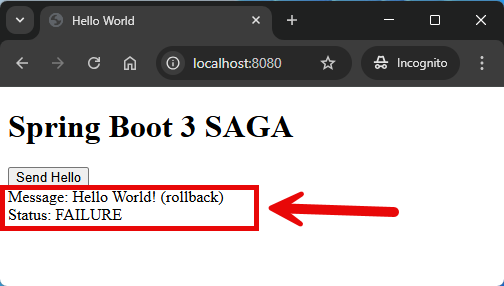
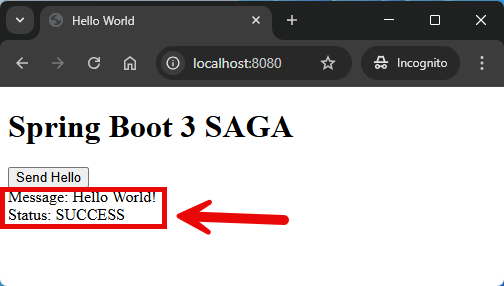
Update Readme file

Changed region(s): [[0.0, 0.6434, 0.8036, 0.8392]]

diff --git a/spring-cloud/transactions/springcloud-transactions-saga-choreography/README.md b/spring-cloud/transactions/springcloud-transactions-saga-choreography/README.md
@@ -7,26 +7,28 @@ EXAMPLE
 
 ![My Image](readme-images/image-03.png)
 
+![My Image](readme-images/image-04.png)
+
 
 DESCRIPTION
 -----------
 
 ##### Goal
-The goal of this project is to present how to create **basic ecosystem of microservices** with usage **Java** programming language and **Spring Cloud** and **Spring Boot 3** frameworks.
+The goal of this project is to present how to implement **distributed transactions management** 
+using **SAGA** architecture pattern type **choreography** with usage **Java** programming language 
+and **Spring Cloud** and **Spring Boot 3** frameworks.
+
+SAGA enables transaction management in distributed architecture. It means that if transaction fails in one
+microservice then it's rolled back in all microservices. Type choreography means every microservices handles
+rollback itself.
 
 ##### Services
 This project consists of following applications:
-* **Database**: SQL database - in this case type **MySql**
-* **Second Service**: an application created in **Java** programming language with usage **Spring Boot** framework. It has connection with MySql database
-* **First Service**: an application created in **Java** programming language with usage **Spring Boot** framework. It has connection with Second Service
-
-##### Inputs
-This project requires following inputs:
-* **First Service**: http requests from any Rest Client. It handles GET method for paths "/public" and "/secured"
-
-##### Outputs
-This project provides following outputs:
-* **First Service**: http responses with JSONs with data
+* **Second Service**: an application created in **Java** programming language with usage **Spring Boot** framework. 
+It waits 3 seconds and send back random status SUCCESS/FAILURE to Kafka
+* **First Service**: an application created in **Java** programming language with usage **Spring Boot** framework. 
+It displays message and status using SSE. 
+* **Kafka**: event-driven messaging server
 
 ##### Terminology
 Terminology explanation:
@@ -34,16 +36,22 @@ Terminology explanation:
 * **Maven**: tool for build automation
 * **Java**: object-oriented programming language
 * **Spring Boot**: framework for Java. It consists of: Spring + Container + Configuration
-* **Spring Cloud**: Spring Cloud is a framework within the Spring ecosystem that provides tools for building distributed systems and microservices. It simplifies tasks like service discovery, configuration management, load balancing, circuit breakers, and distributed tracing, allowing developers to build scalable and resilient cloud-native applications.
-* **Database**: A database is an organized collection of data that is stored and managed electronically, allowing for efficient retrieval, manipulation, and updating of information. It is typically managed by a database management system (DBMS).
-* **MySql**: MySQL is an open-source relational database management system (RDBMS) that uses Structured Query Language (SQL) for managing and organizing data. It's widely used for web applications and is known for its speed, reliability, and ease of use.
+* **Spring Cloud**: Spring Cloud is a framework within the Spring ecosystem that provides tools for building 
+distributed systems and microservices. It simplifies tasks like service discovery, configuration management, 
+load balancing, circuit breakers, and distributed tracing, allowing developers to build scalable and resilient 
+cloud-native applications.
+* **Kafka**: Kafka is a distributed event streaming platform used for building real-time data pipelines and applications. 
+It allows systems to publish, store, and subscribe to streams of records (events) in a fault-tolerant and scalable way.
+* **SAGA**: The Saga Pattern is a design pattern for managing long-running, distributed transactions by breaking them 
+into a sequence of local transactions. Each local transaction has a corresponding compensating action to undo its 
+effects in case of failure, ensuring eventual consistency without using distributed transactions.
 
 
 USAGES
 ------
 
 This project can be tested in following configurations:
-* **Usage Manual**: infrastucture services are started as Docker containers. Application services are started manually in command line
+* **Usage Manual**: infrastructure services are started as Docker containers. Application services are started manually in command line
 * **Usage Docker Compose**: all services are started as Docker containers definied in docker compose file.
 * **Usage Kubernetes (Kind)**: all services are started as Kubernetes pods.
 
@@ -51,7 +59,7 @@ This project can be tested in following configurations:
 USAGE MANUAL
 ------------
 
-> **Usage Manual** means that infrastucture services are started as Docker containers. Application services are started manually in command line.
+> **Usage Manual** means that infrastructure services are started as Docker containers. Application services are started manually in command line.
 
 > Please **clone/download** project, open **project's main folder** in your favorite **command line tool** and then **proceed with steps below**.
 
@@ -65,10 +73,14 @@ USAGE MANUAL
 1. In a first command line tool **start Docker containers** with `docker-compose -f .\docker-compose\infrastructure\docker-compose.yaml up -d --build`
 1. In a second command line tool **start Second application** with `mvn -f ./springcloud-transactions-saga-choreography_SECOND spring-boot:run`
 1. In a third command line tool **start First application** with `mvn -f ./springcloud-transactions-saga-choreography_FIRST spring-boot:run`
-1. In any Rest Client (e.g. Postman) using GET method visit `http://localhost:8081/public`
-   * Expected following **JSON**: {"text": "Hello World, Public!", "portFirst": "8081", "portSecond": "8082"}
-1. In any Rest Client (e.g. Postman) using GET method visit `http://localhost:8081/secured`
-   * Expected following **JSON**: {"text": "Hello World, Secured!", "portFirst": "8081", "portSecond": "8082"}
+1. In any Internet Browser (e.g. Chrome) visit `http://localhost:8080`
+   * Expected HTML page with "Send Hello" button
+   * Click "Send Hello" button
+   * Expected HTML page with "message" as "Hello World!" and "status" as "IN PROGRESS"
+   * After 3 seconds if random status is success: expected HTML page with "message" as "Hello World!" 
+     and "status" as "SUCCESS"
+   * After 3 seconds if random status is failure: expected HTML page with "message" as "Hello World! (rollback)" 
+     and "status" as "FAILURE"
 1. Clean up environment
    * In the third command line tool **stop First application** with `ctrl + C`
    * In the second command line tool **stop Second application** with `ctrl + C`
